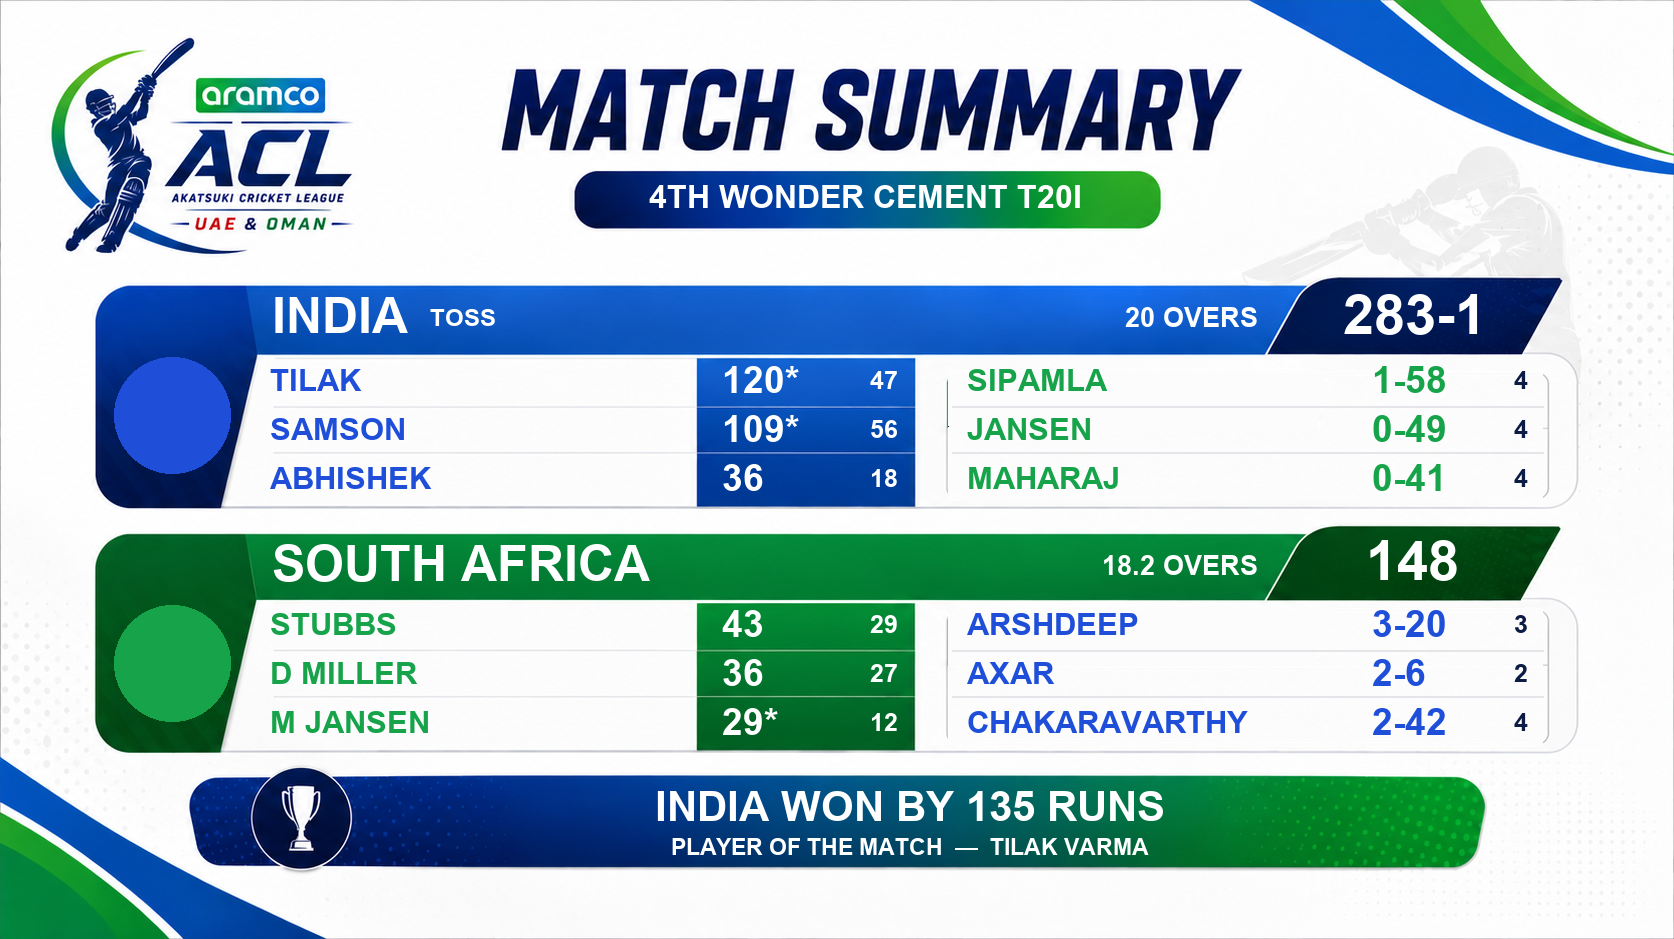
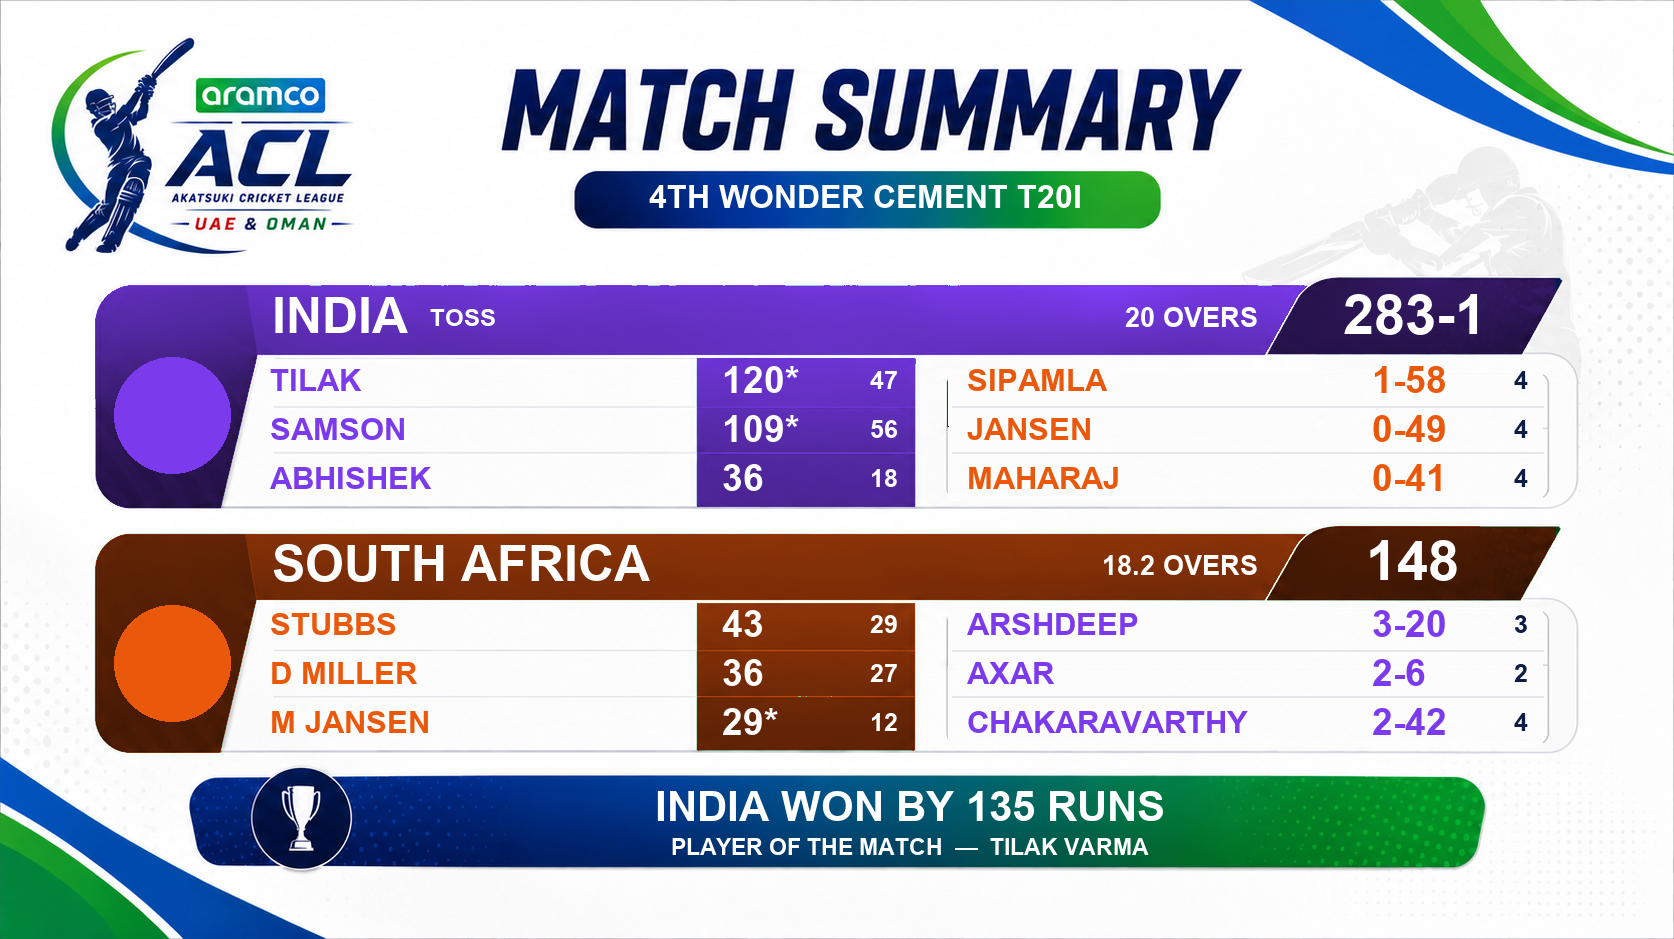
summary card update

Changed region(s): [[0.0311, 0.278, 0.9319, 0.803], [0.8076, 0.7103, 0.8698, 0.803]]

diff --git a/bot.py b/bot.py
@@ -1787,6 +1787,32 @@ def generate_acl_match_summary(data: dict) -> io.BytesIO:
                 is_line  = abs(r - g) < 20 and abs(g - b) < 20 and 150 < r < 249
                 if is_green or is_line:
                     _ip[xx, yy] = (252, 252, 252, 255)
+
+    # Recolor each team-row's coloured frame (header bar + logo cap + score cap +
+    # run/over block) to that team's colour — swap only Hue/Saturation in HSV and keep
+    # Value, so the brightness gradient is preserved. White panels / grey grid (low
+    # saturation) are untouched by the mask.
+    from colorsys import rgb_to_hsv as _r2h
+    def _rc_hex(c):
+        try:
+            c = (c or "").lstrip("#"); return tuple(int(c[i:i+2], 16) for i in (0, 2, 4))
+        except Exception:
+            return (107, 114, 128)
+    def _recolor(box, rgb):
+        th, ts, _tv = _r2h(rgb[0]/255, rgb[1]/255, rgb[2]/255)
+        H = int(th*255); S = int(ts*255)
+        reg = img.crop(box).convert("RGB")
+        h, s, v = reg.convert("HSV").split()
+        mask = s.point(lambda x: 255 if x > 70 else 0)
+        h.paste(Image.new("L", reg.size, H), (0, 0), mask)
+        s.paste(Image.new("L", reg.size, S), (0, 0), mask)
+        img.paste(Image.merge("HSV", (h, s, v)).convert("RGB"), (box[0], box[1]))
+    try:
+        _recolor((88, 278, 1556, 515), _rc_hex((data.get("t1") or {}).get("color")))
+        _recolor((88, 525, 1556, 760), _rc_hex((data.get("t2") or {}).get("color")))
+    except Exception as _rc_err:
+        print(f"⚠️ ACL team-colour recolor skipped: {_rc_err}")
+
     d = ImageDraw.Draw(img)
     # Redraw a 3-row grid in the bowling box identical to the batting section.
     for gy in (406, 452, 650, 696):
@@ -9790,12 +9816,15 @@ class PrefixCog(commands.Cog):
         if not ctx.author.guild_permissions.administrator and ctx.author.id != ADMIN_DISCORD_ID:
             return await ctx.send("❌ Server Admins only.")
         server_id = str(ctx.guild.id)
-        tourney = get_server_tournament(server_id)
-        if not tourney: return await ctx.send("❌ No tournament exists.")
         from subscription_manager import DB_CACHE
-        DB_CACHE["tournaments"] = [t for t in DB_CACHE.get("tournaments", []) if t.get("server_id") != server_id]
+        before = DB_CACHE.get("tournaments", []) or []
+        # Match on str() of both sides so an entry saved with an int server_id still gets cleaned.
+        DB_CACHE["tournaments"] = [t for t in before if str(t.get("server_id")) != server_id]
+        removed = len(before) - len(DB_CACHE["tournaments"])
+        if removed == 0:
+            return await ctx.send("❌ No tournament exists for this server.")
         save_tournament_data_to_bin()
-        await ctx.send("🗑️ Tournament deleted.")
+        await ctx.send(f"🗑️ Tournament deleted ({removed} removed).")
 
     @tournament.command(name="set_theme", help="[ADMIN] Set the scorecard theme.\nUsage: tournament set_theme <Default|Crimson Cricket>")
     async def t_set_theme(self, ctx, *, theme_name: str):